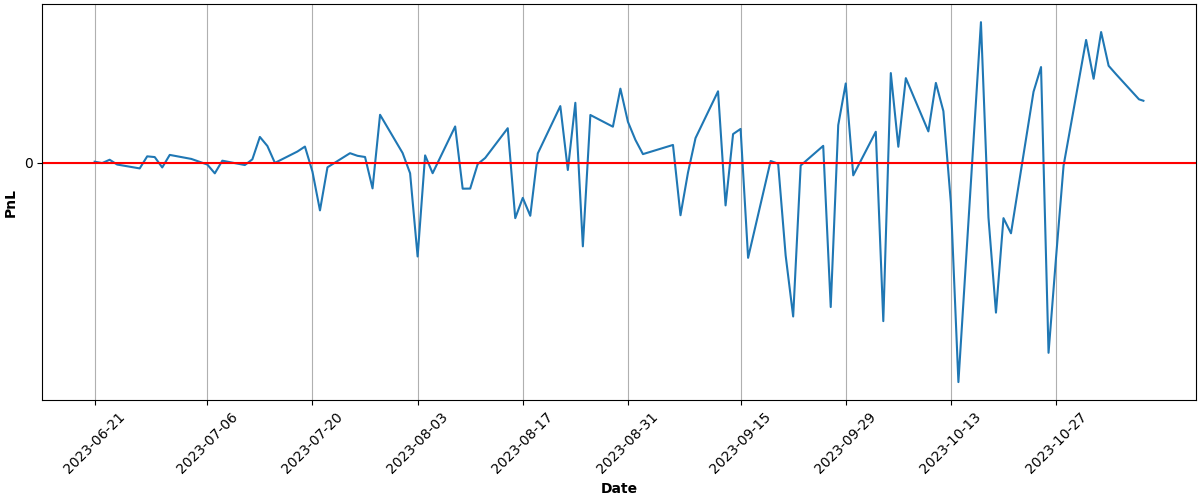
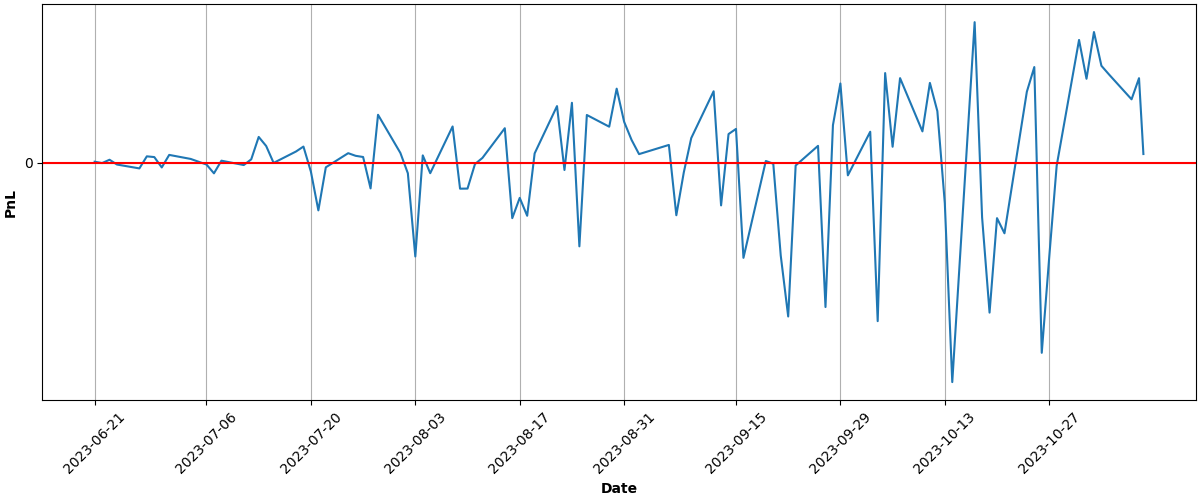
Automated Buy At Wed Nov  8 15:04:46 UTC 2023 Run ID 6800089699

diff --git a/README.md b/README.md
@@ -68,9 +68,9 @@ Results
 
 | Asset | Average Price | Current Price | ROI | 📈 |
 | --- | --- | --- | --- | --- |
-| FNGU | $170.974417108 | $170.23 | -0.44% | &#128308;&#128546; |
-| SVIX | $27.979773171 | $29.749 | 6.32% | &#128994;&#128515; |
-| **Total** |  |  | **3.16%** | &#128994;&#128518; |
+| FNGU | $170.979359331 | $171.73 | 0.44% | &#128994;&#128515; |
+| SVIX | $27.979773171 | $30.09 | 7.54% | &#128994;&#128515; |
+| **Total** |  |  | **4.20%** | &#128994;&#128518; |
 
 ### PnL over time (calculations may not be accurate):
 
@@ -81,6 +81,6 @@ Results
 ---
 
 
-Updated at 2023-11-07 15:04:52
+Updated at 2023-11-08 15:05:06
 
 
